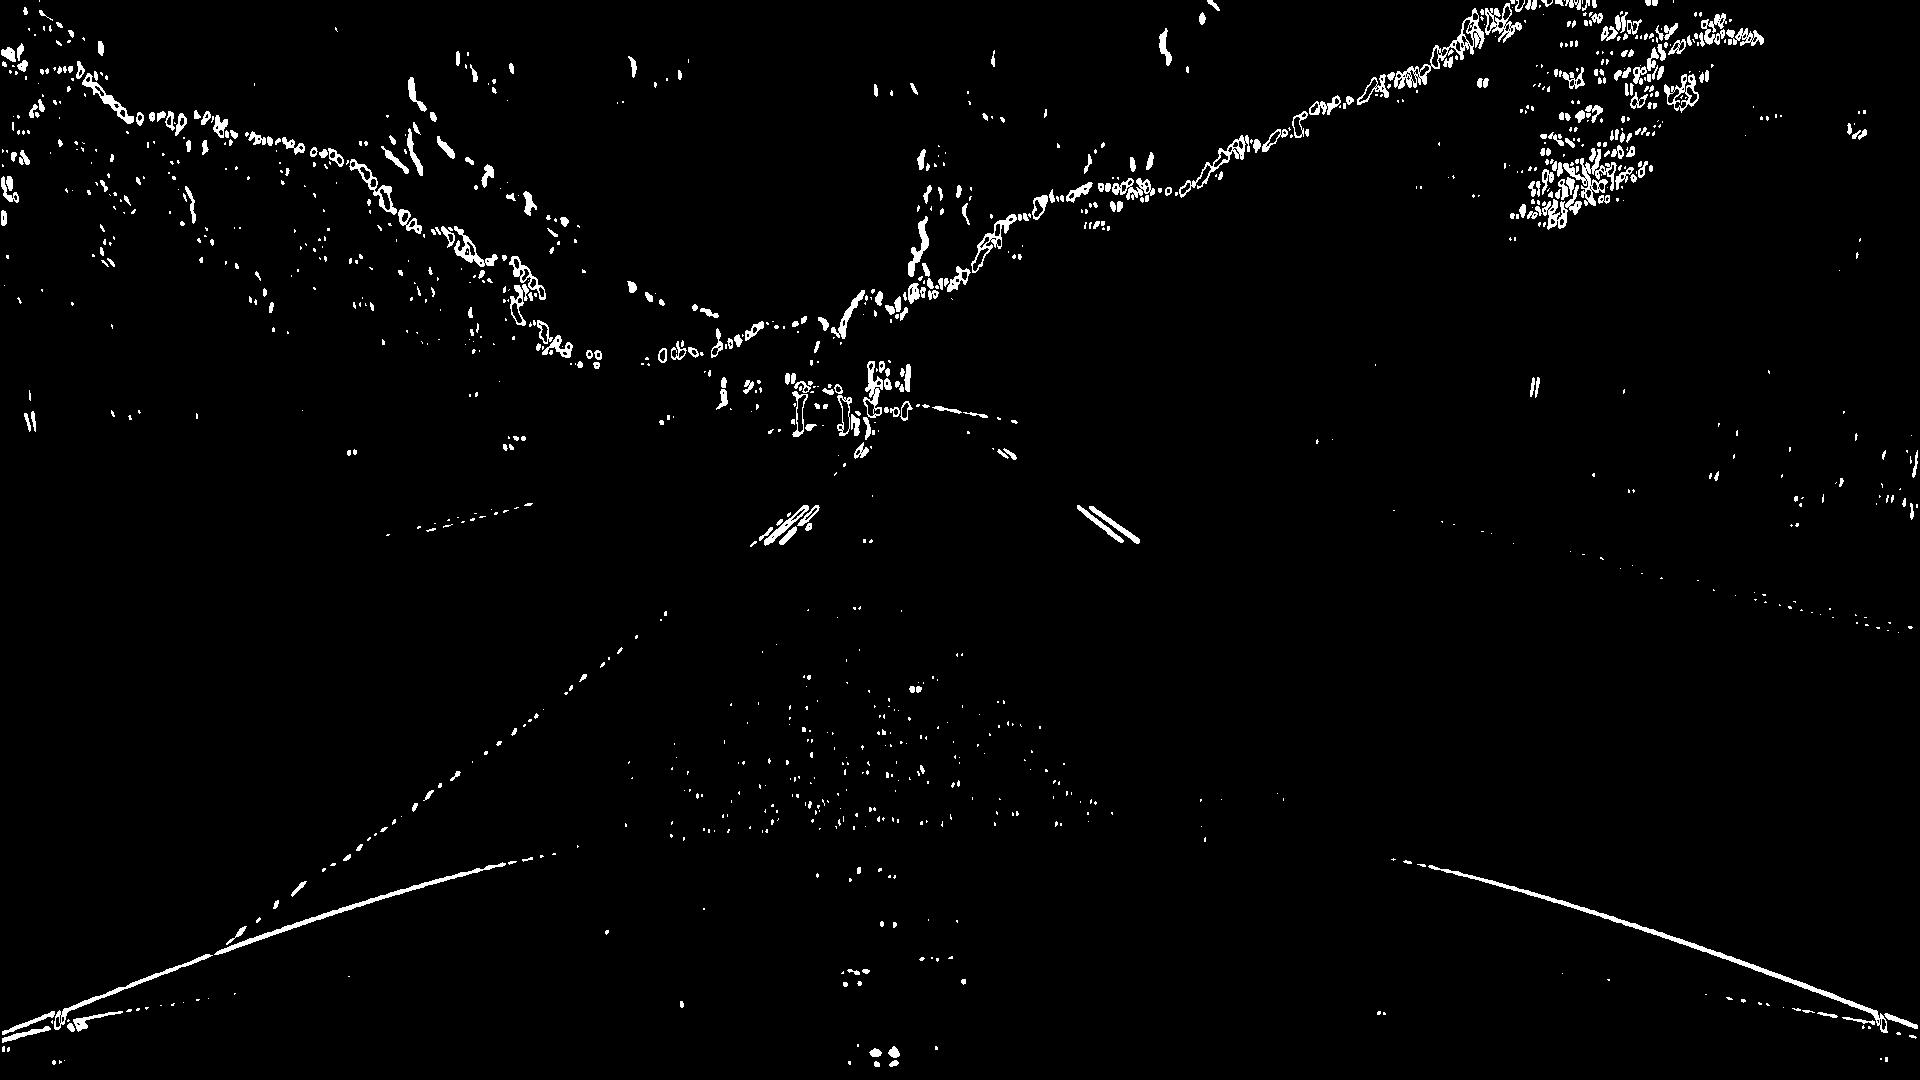
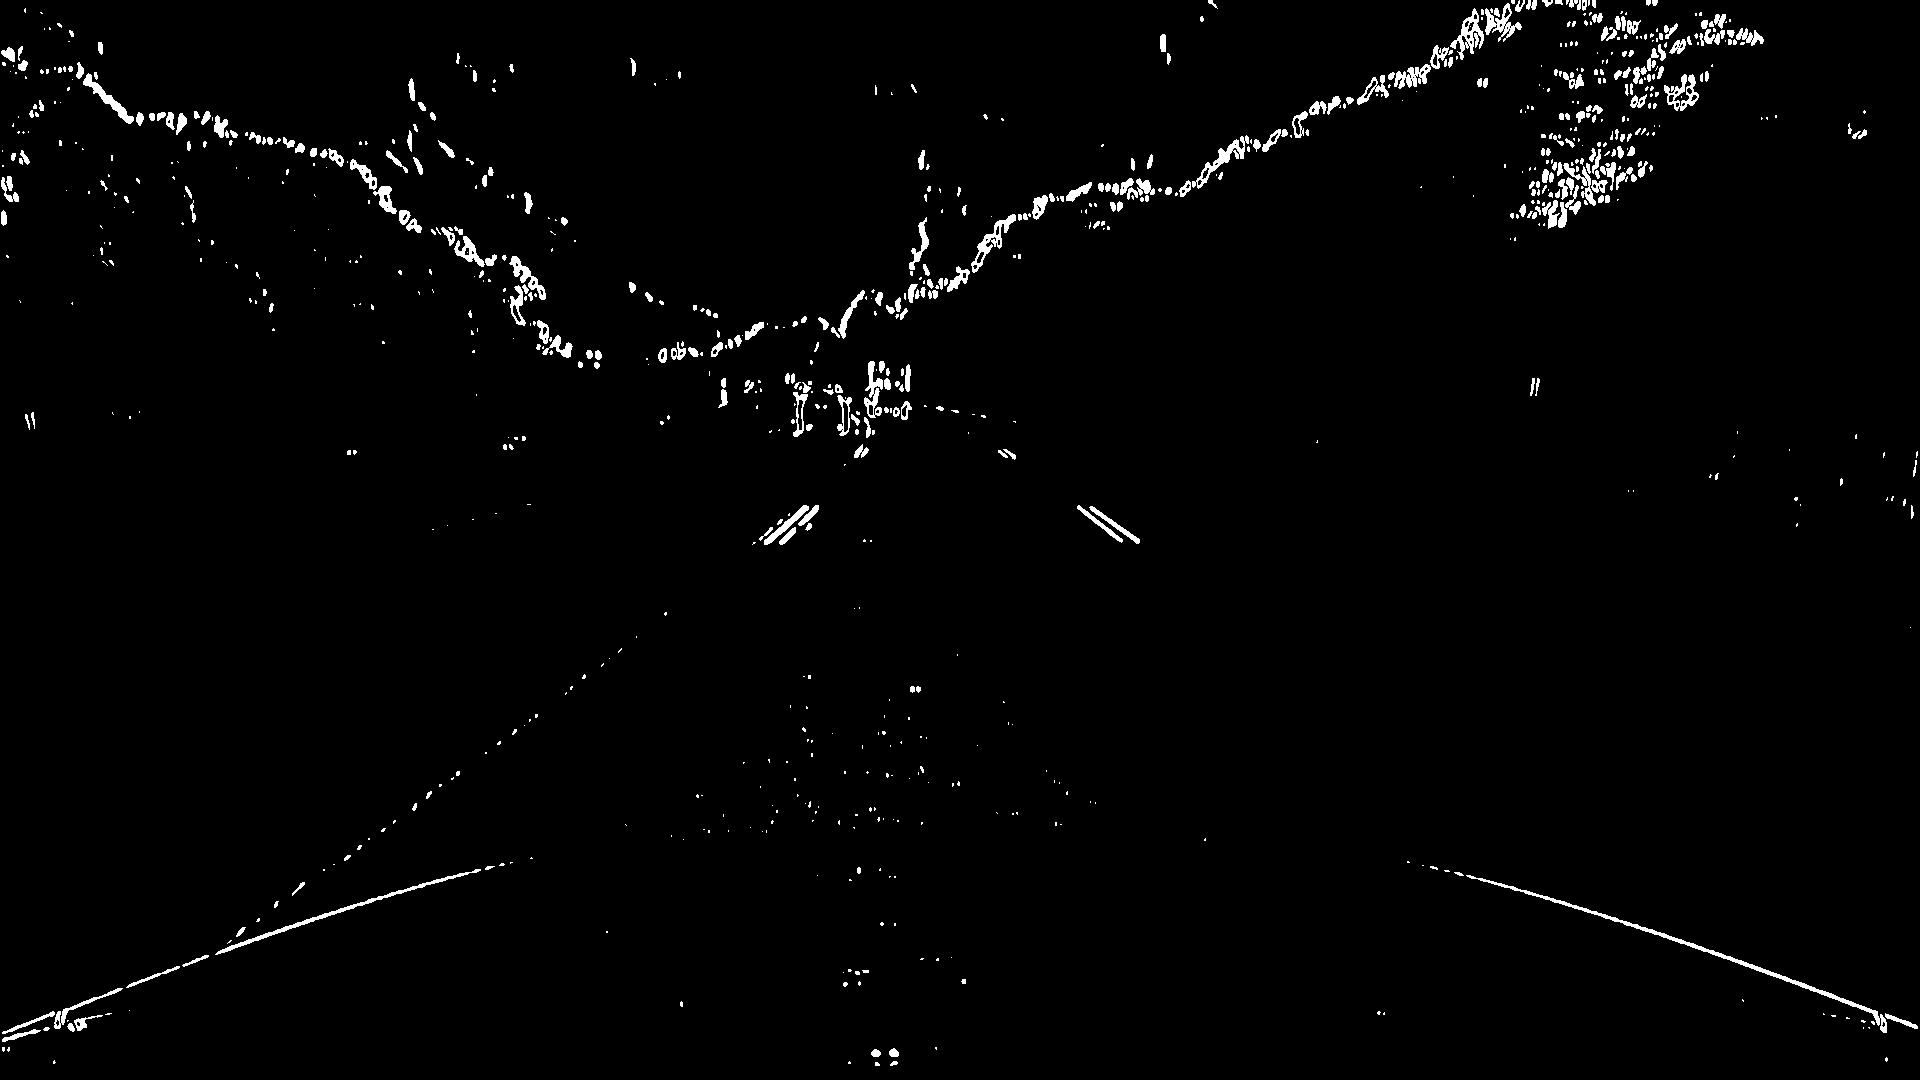
shiny road images added

Changed region(s): [[0.8125, 0.1528, 0.8438, 0.1833], [0.7188, 0.0611, 0.75, 0.0917], [0.4375, 0.3667, 0.4688, 0.3972]]

diff --git a/rough_work/test_image.py b/rough_work/test_image.py
@@ -36,7 +36,7 @@ def lightness_select(img, thresh = (120,255)):
 
 
 # this function accepts a HLS format image
-def saturation_select(img, thresh = (100,255)):
+def saturation_select(img, thresh = (175,255)):
 
     # 2. apply threshold to saturation channel
     s_channel = img[:,:,2]
@@ -131,7 +131,7 @@ def combined_threshold(img):
     s_binary = saturation_select(hls, thresh = (100, 255))
 
     ksize = 7
-    gradx = abs_sobel_thresh(gray_blurred, orient='x', sobel_kernel=ksize, thresh=(25, 100))
+    gradx = abs_sobel_thresh(gray_blurred, orient='x', sobel_kernel=ksize, thresh=(30, 150))
     # assuming lanelines are always at an angle between 30 and 45 degree to horizontal
     dir_binary = dir_threshold(gray_blurred, sobel_kernel=ksize, thresh=(0.55, 0.72))
 
